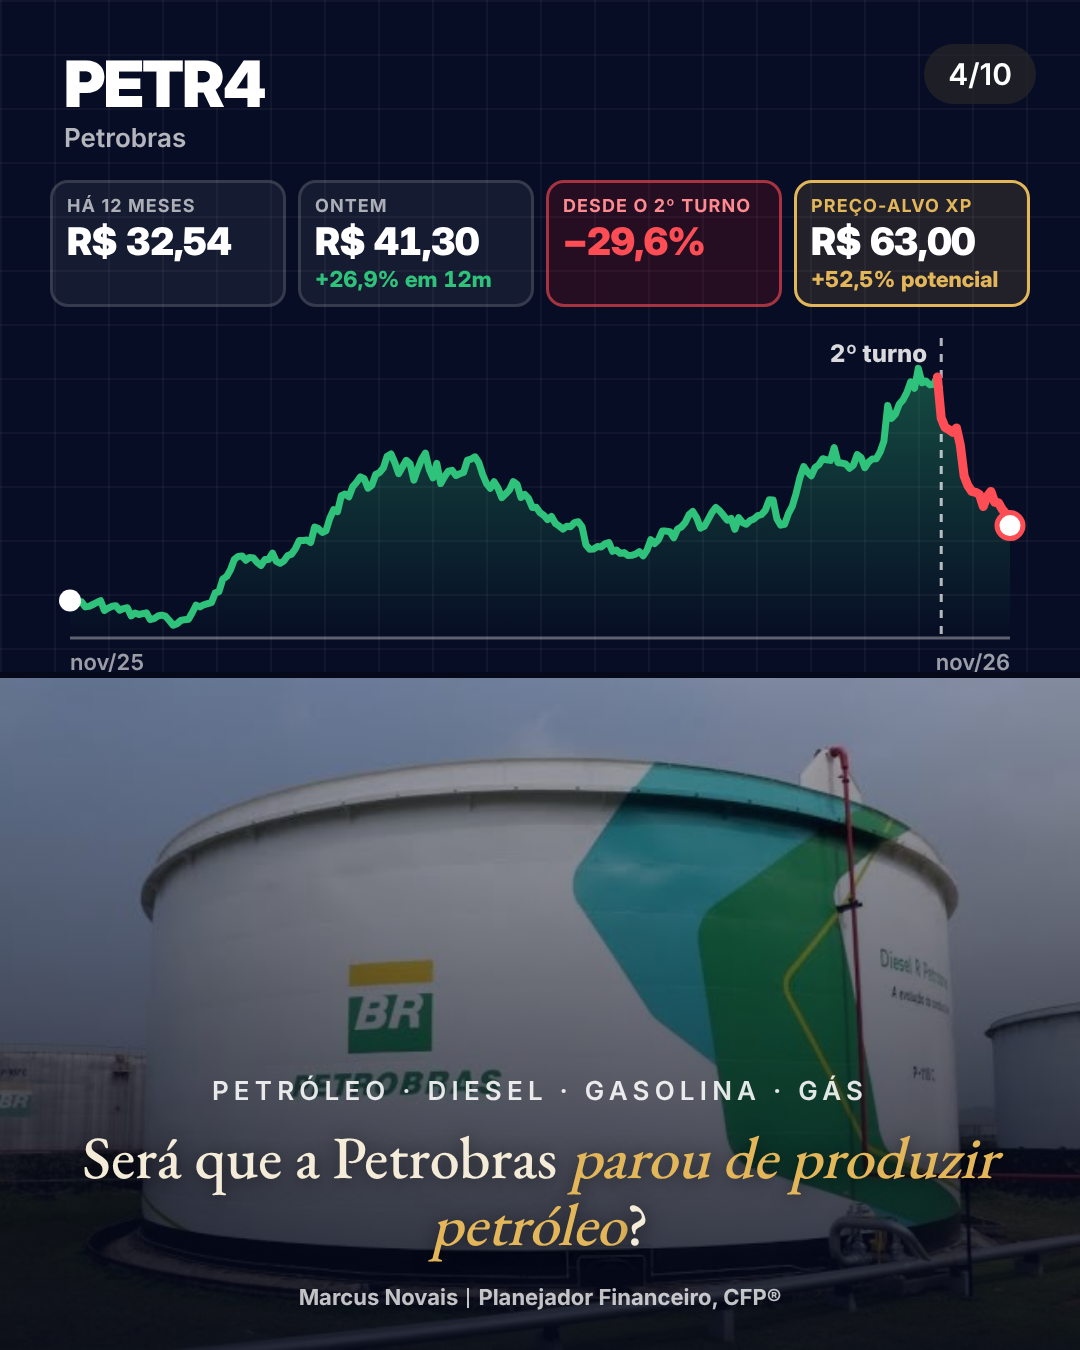
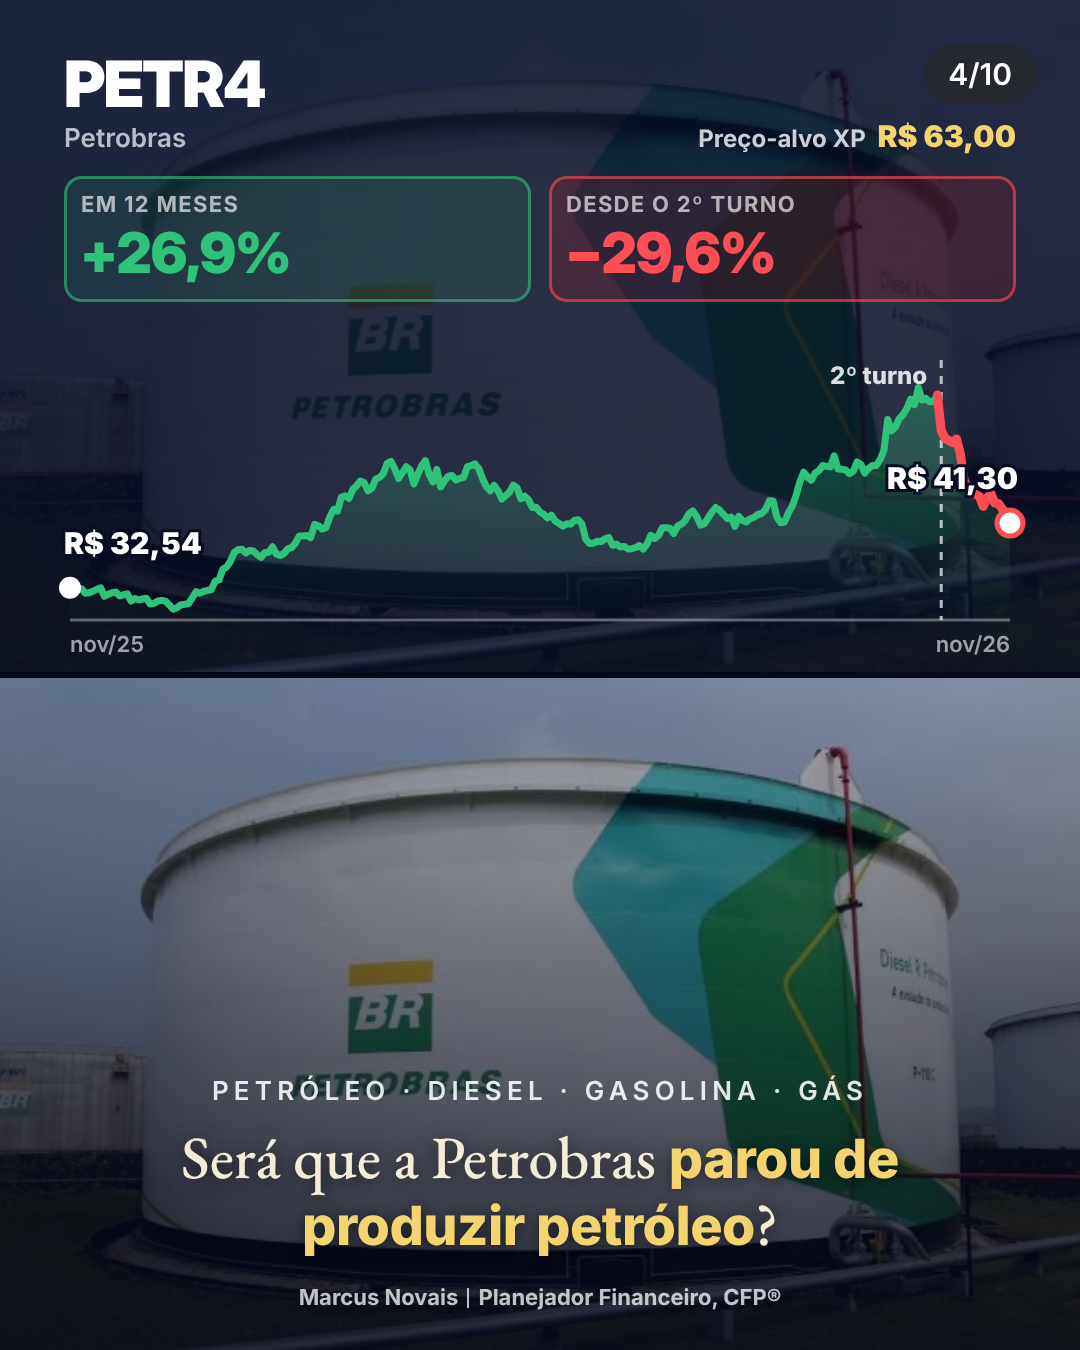
Carrossel blue chips: só variações nos quadros, preços no gráfico, foto de fundo em cima, amarelo em negrito
Claude-Session: https://claude.ai/code/session_01JkBXj6tz5hpSkGAznkwYEm

diff --git a/carrossel-bluechips-segundo-turno/slides.html b/carrossel-bluechips-segundo-turno/slides.html
@@ -22,24 +22,27 @@
   .chart .hd { position:absolute; left:64px; top:52px; }
   .chart .tk { font-family:"Inter Display","Inter",sans-serif; font-weight:900; font-size:64px; letter-spacing:-.03em; line-height:1; }
   .chart .nm { font-size:26px; font-weight:600; color:rgba(255,255,255,.7); margin-top:6px; }
-  .chart .vals { position:absolute; left:50px; right:50px; top:180px; display:flex; gap:12px; }
+  .chart .vals { position:absolute; left:64px; right:64px; top:176px; display:flex; gap:18px; z-index:2; }
+  .chart .hd, .chart svg { z-index:2; }
+  .alvo { position:absolute; right:64px; top:118px; z-index:2; font-size:24px; font-weight:700; color:rgba(255,255,255,.8); }
+  .alvo b { color:#f3d46e; font-weight:900; font-size:30px; margin-left:6px; }
   .chart .vals > div { flex:1; border-radius:18px; padding:12px 14px; background:rgba(255,255,255,.06); border:3px solid rgba(255,255,255,.14); }
-  .chart .vals .k { font-size:18px; font-weight:700; color:rgba(255,255,255,.65); text-transform:uppercase; letter-spacing:.06em; }
-  .chart .vals .v { font-family:"Inter Display","Inter",sans-serif; font-weight:900; font-size:38px; letter-spacing:-.02em; margin-top:2px; font-variant-numeric:tabular-nums; }
+  .chart .vals .k { font-size:22px; font-weight:700; color:rgba(255,255,255,.65); text-transform:uppercase; letter-spacing:.06em; }
+  .chart .vals .v { font-family:"Inter Display","Inter",sans-serif; font-weight:900; font-size:56px; letter-spacing:-.02em; margin-top:2px; font-variant-numeric:tabular-nums; }
   .chart .vals .v small { display:block; font-size:22px; font-weight:800; margin-top:2px; letter-spacing:0; }
-  .chart svg { position:absolute; left:0; top:318px; width:1080px; height:360px; }
+  .chart svg { position:absolute; left:0; top:300px; width:1080px; height:360px; }
   /* painel da foto */
   .q { position:absolute; left:70px; right:70px; bottom:92px; text-align:center; z-index:3; }
   .q .lab { font-size:26px; font-weight:600; letter-spacing:.2em; text-transform:uppercase; color:rgba(255,255,255,.88); margin-bottom:18px; }
   .q .t { font-family:"EBG",serif; font-weight:500; font-size:60px; line-height:1.12; color:#f4ecd8; text-shadow:0 2px 18px rgba(0,0,0,.6); }
-  .q .t em { font-style:italic; color:var(--gold); }
+  .q .t em, .big .t em { font-style:normal; font-family:"Inter",sans-serif; font-weight:800; letter-spacing:-.01em; color:#f3d46e; text-shadow:0 2px 14px rgba(0,0,0,.55); font-size:.9em; }
   .foot { position:absolute; left:0; right:0; bottom:40px; text-align:center; font-size:22px; font-weight:700; color:rgba(255,255,255,.75); z-index:4; }
   .foot span { display:inline-block; width:2px; height:20px; background:rgba(255,255,255,.75); margin:0 9px -3px; }
   /* capa e final */
   .big { position:absolute; left:70px; right:70px; text-align:center; z-index:3; }
   .big .lab { font-size:28px; font-weight:600; letter-spacing:.2em; text-transform:uppercase; color:rgba(255,255,255,.9); margin-bottom:14px; }
   .big .t { font-family:"EBG",serif; font-weight:600; font-size:68px; line-height:1.08; color:#f4ecd8; text-shadow:0 2px 18px rgba(0,0,0,.6); }
-  .big .t em { font-style:italic; color:var(--gold); }
+  
   .grid8 { position:absolute; left:64px; right:64px; top:150px; display:grid; grid-template-columns:repeat(4,1fr); gap:16px; }
   .grid8 > div { border-radius:18px; background:rgba(255,255,255,.06); border:3px solid rgba(255,255,255,.14); padding:16px 10px; text-align:center; }
   .grid8 .k { font-family:"Inter Display","Inter",sans-serif; font-weight:900; font-size:32px; }
@@ -74,7 +77,7 @@ const st=t=>{ const s=D[t], a=s[0][1], z=s[s.length-1][1], pre=s.filter(p=>p[0]<
 const foot=`<div class="foot">Marcus Novais<span></span>Planejador Financeiro, CFP®</div>`;
 function chart(t){
   const {s,a,z,pre}=st(t), n=s.length, vs=s.map(p=>p[1]);
-  const lo=Math.min(...vs)*.95, hi=Math.max(...vs)*1.04, X0=70, X1=1010, Y0=320, Y1=30;
+  const lo=Math.min(...vs)*.95, hi=Math.max(...vs)*1.04, X0=70, X1=1010, Y0=320, Y1=70;
   const gx=i=>X0+(X1-X0)*i/(n-1), gy=v=>Y0-(Y0-Y1)*(v-lo)/(hi-lo);
   const i2=s.findIndex(p=>p[0]>T2);
   const line=s.map((p,i)=>(i?'L':'M')+gx(i).toFixed(1)+' '+gy(p[1]).toFixed(1)).join('');
@@ -85,6 +88,8 @@ function chart(t){
   g+=`<text x="${gx(i2)-14}" y="${Y1+14}" text-anchor="end" font-family="Inter" font-weight="800" font-size="24" fill="rgba(255,255,255,.85)">2º turno</text>`;
   g+=`<path d="${line}" fill="none" stroke="${col}" stroke-width="7" stroke-linejoin="round" stroke-linecap="round"/>`;
   g+=`<path d="${s.slice(i2-1).map((p,j)=>(j?'L':'M')+gx(i2-1+j).toFixed(1)+' '+gy(p[1]).toFixed(1)).join('')}" fill="none" stroke="#ff4d55" stroke-width="9" stroke-linejoin="round" stroke-linecap="round"/>`;
+  const lab=(x,yv,v,anc,c)=>`<text x="${x}" y="${gy(yv)-34}" text-anchor="${anc}" font-family="Inter" font-weight="900" font-size="30" fill="${c}" stroke="#070d24" stroke-width="6" paint-order="stroke">${brl(v)}</text>`;
+  g+=lab(gx(0)-6,a,a,'start','#fff')+lab(gx(n-1)+8,z,z,'end','#fff');
   g+=`<circle cx="${gx(0)}" cy="${gy(a)}" r="11" fill="#fff"/><circle cx="${gx(n-1)}" cy="${gy(z)}" r="13" fill="#fff" stroke="#ff4d55" stroke-width="5"/>`;
   g+=`<line x1="${X0}" x2="${X1}" y1="${Y0}" y2="${Y0}" stroke="rgba(255,255,255,.35)" stroke-width="3"/>`;
   g+=`<text x="${X0}" y="${Y0+32}" font-family="Inter" font-weight="600" font-size="22" fill="rgba(255,255,255,.6)">nov/25</text><text x="${X1}" y="${Y0+32}" text-anchor="end" font-family="Inter" font-weight="600" font-size="22" fill="rgba(255,255,255,.6)">nov/26</text>`;
@@ -101,14 +106,14 @@ S.push(`<div class="half top"><img class="ph" src="img/marcus.jpg" style="object
   <div class="note" style="top:440px">Fechamento de 23/10/2026 x fechamento de ontem (23/11/2026). <b style="color:#fff">Arrasta 👉</b></div>${foot}</div>`);
 // 2-9 empresas
 E.forEach(([t,nm,img,prod,qq])=>{ const {a,z,pre,y,p2}=st(t);
-  S.push(`<div class="half top chart"><div class="hd"><div class="tk">${t}</div><div class="nm">${nm}</div></div>
-   <div class="vals"><div><div class="k">Há 12 meses</div><div class="v">${brl(a)}</div></div>
-    <div><div class="k">Ontem</div><div class="v">${brl(z)}<small style="color:${y>=0?'#2fc27a':'#ff4d55'}">${pct(y)} em 12m</small></div></div>
-    <div style="border-color:rgba(255,77,85,.6); background:rgba(227,20,30,.14)"><div class="k" style="color:#ff8a8f">Desde o 2º turno</div><div class="v" style="color:#ff4d55">${pct(p2)}</div></div>
-    <div style="border-color:var(--gold); background:rgba(227,182,90,.12)"><div class="k" style="color:var(--gold)">Preço-alvo XP</div><div class="v">${brl(ALVO[t][0])}<small style="color:var(--gold)">${pct(ALVO[t][0]/z-1)} potencial</small></div></div></div>
+  const ph=`<img class="ph" src="img/${img}.jpg" style="object-position:${img=='sbsp3'?'50% 10%':img=='bbdc4'?'30% 30%':'50% 50%'}">`;
+  S.push(`<div class="half top chart">${ph}<div class="sh" style="background:rgba(7,13,36,.86)"></div><div class="hd"><div class="tk">${t}</div><div class="nm">${nm}</div></div>
+   <div class="alvo">Preço-alvo XP <b>${brl(ALVO[t][0])}</b></div>
+   <div class="vals"><div style="border-color:${y>=0?'rgba(47,194,122,.6)':'rgba(255,77,85,.6)'}; background:${y>=0?'rgba(47,194,122,.12)':'rgba(227,20,30,.14)'}"><div class="k">Em 12 meses</div><div class="v" style="color:${y>=0?'#2fc27a':'#ff4d55'}">${pct(y)}</div></div>
+    <div style="border-color:rgba(255,77,85,.6); background:rgba(227,20,30,.14)"><div class="k">Desde o 2º turno</div><div class="v" style="color:#ff4d55">${pct(p2)}</div></div></div>
    <svg viewBox="0 0 1080 360">${chart(t)}</svg></div>
   <div class="sep"></div>
-  <div class="half bot"><img class="ph" src="img/${img}.jpg" style="object-position:${img=='sbsp3'?'50% 10%':img=='bbdc4'?'30% 30%':'50% 50%'}"><div class="sh" style="background:linear-gradient(180deg, rgba(5,9,26,.35) 0%, rgba(5,9,26,.55) 40%, rgba(5,9,26,.88) 100%)"></div>
+  <div class="half bot">${ph}<div class="sh" style="background:linear-gradient(180deg, rgba(5,9,26,.35) 0%, rgba(5,9,26,.55) 40%, rgba(5,9,26,.88) 100%)"></div>
    <div class="q"><div class="lab">${prod}</div><div class="t">${qq}</div></div>${foot}</div>`); });
 // 10 final
 S.push(`<div class="half top chart"><div class="big" style="top:120px"><div class="lab">O que separa o investidor do apostador</div></div>
